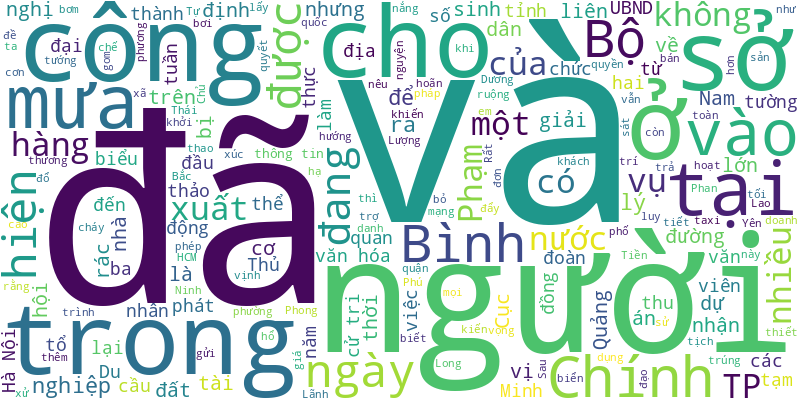
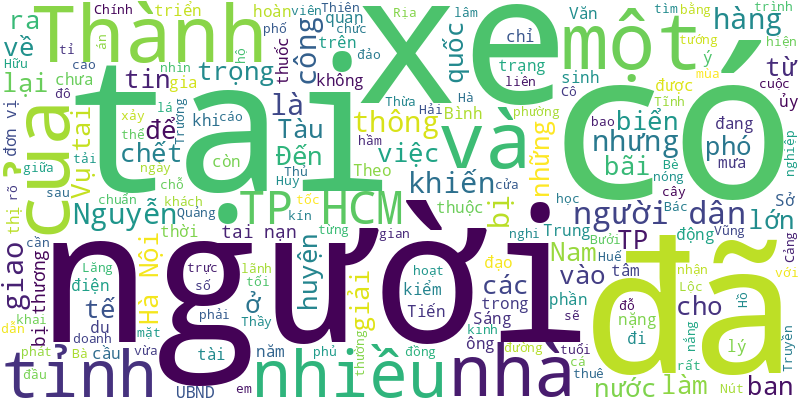
🍀 = 80%

diff --git a/README.md b/README.md
@@ -1,6 +1,17 @@
 # Tuoi Tre RSS 
 
 ## Giáo dục 
+- Số lượng sinh viên quốc tế ở Úc đã đạt mức cao kỷ lục là 671.000 người vào tháng 3 vừa qua, tăng 15% so với năm ngoái.
+- Tại hội nghị, Phó chủ tịch TP.HCM Dương Anh Đức mong lĩnh vực năng lực sức khỏe sẽ được tích hợp vào chương trình đào tạo của Trường đại học Y khoa Phạm Ngọc Thạch.
+- Trường THCS Nguyễn Văn Bứa, TP.HCM có chủ trương gửi mẫu đơn 'xin không thi tuyển sinh lớp 10' cho phụ huynh là không đúng quy định.
+- Thời gian tới, Bộ Khoa học và Công nghệ sẽ không quá ưu tiên vào  công bố quốc tế, mà ưu tiên cho các nhà khoa học trẻ.
+- Với 20 phương thức xét tuyển đại học năm 2024, thí sinh có nhiều lựa chọn để đăng ký ngành, trường yêu thích.
+- Chuyến xe Khám phá trường học tiếp tục đưa khán giả tham quan một cơ sở giáo dục mới, lần này là hệ thống Trường Me Since 1988 tại TP.HCM.
+- Sức hút ngành quan hệ công chúng tăng dần và liên tục thu hút thí sinh quan tâm trên các diễn đàn nghề nghiệp.
+- Quản trị kinh doanh luôn có sức hút mạnh mẽ đối với Gen Z và là một ngành hot mỗi mùa tuyển sinh đại học.
+- Dự kiến bắt đầu từ 17h ngày mai 14-5, học sinh lớp 9 ở TP.HCM sẽ có 5 ngày để thay đổi nguyện vọng tuyển sinh lớp 10.
+- Trường đại học Bách khoa (Đại học Quốc gia TP.HCM) vừa công bố chi tiết về phương thức xét tuyển tổng hợp năm 2024 với cách tính điểm đặc biệt.
+- Thủ tướng Phạm Minh Chính nhắn nhủ như vậy tại lễ khai mạc Ngày hội khởi nghiệp quốc gia của học sinh, sinh viên diễn ra tại TP Cần Thơ vào ngày 12-5.
 - Sự phát triển vượt bậc của công nghệ mở ra kỷ nguyên mới trong lĩnh vực thiết kế vi mạch.
 - Ông Johnathan Hạnh Nguyễn đã có liên tục gần 3 giờ trao đổi với sinh viên Trường đại học Đà Lạt về sự học và phát triển bản thân trong chiều 6-5.
 - Sáng 12-5, gần 600 học sinh lớp 6, 7, 8, 9 của TP.HCM và các tỉnh đã tranh tài giải Lê Quý Đôn tại Thảo Cầm Viên, quận 1, TP.HCM.
@@ -20,49 +31,38 @@
 - Mức hỗ trợ học phí cho học sinh THCS là 100.000 đồng/học sinh/tháng đối với nhóm 1 và 85.000 đồng/học sinh/tháng đối với nhóm 2.
 - Hội đồng Anh đã cấp 90.481 chứng chỉ tiếng Anh, trong đó có 52.564 chứng chỉ IELTS khi chưa được cấp phép liên kết tổ chức thi.
 - Đại học Kinh tế TP.HCM (UEH) vừa có kết luận ban đầu về xử lý vụ GS.TS Võ Xuân Vinh thuộc Viện Nghiên cứu kinh doanh UEH, có tên trên bài báo vừa bị một tạp chí quốc tế gỡ bỏ.
-- Việc một giáo viên chụp ảnh trẻ không có đồng phục gửi lên nhóm phụ huynh kèm lời nhắn có phần phân biệt đang nhận nhiều sự quan tâm trên mạng xã hội.
-- Tính đến 17h ngày 10-5, cả nước có trên 1 triệu thí sinh đăng ký dự thi tốt nghiệp THPT năm 2024.
-- Năm 2024, Trường đại học Luật TP.HCM tăng chỉ tiêu tuyển sinh lên 1.134 sinh viên cho các phương thức xét tuyển sớm, dành cho 3 nhóm đối tượng.
-- Tổ chức khóa bồi dưỡng kỹ năng căn bản nhằm đáp ứng nhu cầu về kỹ năng trong lĩnh vực báo chí - truyền thông.
-- Ngày 10-5, Sở Giáo dục và Đào tạo Hà Nội công bố số lượng thí sinh đăng ký dự thi lớp 10 công lập năm học 2024-2025.
-- Chiều 10-5, sự kiện AI Day tiếp tục với hội thảo 'Hiểu AI, làm giàu hành trang nghề nghiệp'. Hội thảo được chia thành các phiên, tập trung vào từng lĩnh vực cụ thể mà AI đang để lại nhiều tác động.
-- Do đề thi môn tiếng Anh cuối học kỳ 2 có sơ sót, nên tất cả học sinh lớp 12 Trường THPT Lê Trọng Tấn, TP.HCM phải kiểm tra lại.
-- Đà Nẵng có 16.500 thí sinh đăng ký nguyện vọng 1 tuyển sinh vào lớp 10 THPT, trong khi đó chỉ tiêu phân bổ cho tất cả các trường là 11.616.
-- Hơn 350 câu hỏi của bạn đọc gửi về buổi giao lưu trực tuyến chủ đề 'Lưu ý gì về tuyển sinh lớp 1, lớp 6, lớp 10 trên địa bàn TP.HCM?' do báo Tuổi Trẻ tổ chức sáng 9-5.
-- Hiện học sinh lớp 12 Trường quốc tế AISVN đang thi kỳ thi tú tài quốc tế (IB), đến hôm nay 10-5 sẽ kết thúc. Theo kế hoạch, ngày 17-5 học sinh lớp 12 của trường sẽ tốt nghiệp THPT.
-- Số thí sinh dự thi lớp 10 Trường phổ thông Năng khiếu tăng gần 1.000 em so với năm trước.
 ![Edu](Edu.png)
 ## Thời Sự 
-- Đang bơm bê tông công trình không phép thì nắp cống vỉa hè trên đường Trần Thủ Độ, phường Tiền Phong, TP Thái Bình, bị sập làm vòi bơm văng trúng tổ thợ khiến ba người bị thương.
-- Ba trẻ em chơi tại vị trí sát tường nhà, phía ngoài tường là ta luy đất. Trong cơn mưa lớn, dòng nước xối từ ta luy đất đã ép tường nhà đổ vào ba em.
-- Tin tức đáng chú ý: Điều chỉnh dự án hỗ trợ, tái định cư Cảng hàng không Long Thành; Sầu riêng vào chính vụ, giá giảm nhanh; Vì sao cháy giữa ruộng ở Sóc Trăng?...
-- Hôm nay thời tiết Bắc Bộ có mưa to. Nam Bộ, Tây Nguyên ngày nắng, chiều tối mưa dông.
-- Chiếc ô tô bốc cháy trong cơn mưa lớn tối 12-5 khiến đường vành đai 3 (hướng đi cầu Thanh Trì, Hà Nội) ùn tắc ở làn đường cao tốc.
-- Sau khoảng hai giờ mưa to, một số tuyến phố ở các quận nội thành Hà Nội đã xuất hiện tình trạng ngập úng.
-- Sau tiếng nổ lớn tại một nhà dân ở huyện Tiên Phước, Quảng Nam, mọi người phát hiện 1 người chết, 1 người bị thương.
-- Tiếp xúc cử tri tại TP Cần Thơ, Thủ tướng Phạm Minh Chính giải đáp nhiều kiến nghị của cử tri liên quan đến đầu tư cơ sở hạ tầng cho vùng, vấn đề hạn mặn, sạt lở và môi trường, an sinh xã hội…
-- Rất nhiều vị trí "đất vàng" tại Đắk Lắk được giao doanh nghiệp làm dự án nhưng xây dựng dang dở, thậm chí bỏ hoang hàng chục năm.
-- Trong phiên thảo luận Hội thảo văn hóa 2024, nhiều đại biểu nhận định cơ chế chính sách vẫn còn bất cập, gây khó cho thúc đẩy thiết chế văn hóa, thể thao.
-- Sở Văn hóa và Thể thao Hà Nội cho biết các đơn vị của sở đang rà soát, xử lý các thông tin liên quan đến giải "WPT VietNam 2024" (một giải đấu poker) đang được quảng cáo trên mạng xã hội.
-- Cơ quan chức năng đã vào cuộc kiểm tra vụ 'Vẫn đua xe địa hình dù đã yêu cầu tạm hoãn'. Lý do tạm hoãn được địa phương giải thích: chưa ổn pháp lý và an toàn.
-- Lượng lớn rác thải nhựa, rác sinh hoạt ở vịnh Vũng Rô và vịnh Xuân Đài, hai danh thắng ở Phú Yên, đã được dọn dẹp trong ngày 12-5.
-- Ngày 12-5, đoàn đại biểu Liên minh châu Âu (EU) đã chung tay thu gom rác tại khu vực bãi biển Hạ Long, tỉnh Quảng Ninh.
-- Nhận định về việc UBND quận Tân Bình kiến nghị nộp tiền chênh lệch để khắc phục do bán rẻ nhà số 9 Tự Cường, Sở Tài chính cho rằng không có cơ sở.
-- Tổng liên đoàn Lao động Việt Nam đề xuất người đóng trên 12 năm bảo hiểm thất nghiệp, không nhận trợ cấp, được thêm quyền lợi.
-- Sân Chi Lăng đang là tài sản thi hành án trong vụ án Phạm Công Danh, vậy liệu có thể giữ lại 'chảo lửa' một thời như nguyện vọng của người dân thành phố không?
-- Lãnh đạo Bộ Công an vừa gửi thư khen Cục An ninh mạng và phòng chống tội phạm sử dụng công nghệ cao (A05) và Công an tỉnh Phú Yên vụ triệt phá đường dây thu thập, sử dụng thông tin cá nhân để mở và bán tài khoản ngân hàng trái phép.
-- Du khách người Pháp chia sẻ bức xúc khi phải trả 500.000 đồng cho cuốc taxi ngắn và thêm 500.000 đồng để lấy lại tài sản bỏ quên trên taxi.
-- Sáng 12-5, Thảo cầm viên Sài Gòn tổ chức thôi nôi cho 2 con hổ Bengal Bình và Dương, rất đông du khách đã đến và hát chúc mừng 2 bé hổ này.
-- Thấy nhân viên cứu hộ đang bơi ra chỗ nạn nhân bị đuối nước, nhưng cứ bơi ra thì sóng lại đẩy vào, anh Tính liền mượn 2 áo phao rồi lao xuống.
-- Đánh giá công tác triển khai nghị quyết 98 gần 1 năm qua, Chủ tịch UBND TP.HCM Phan Văn Mãi cho rằng kết quả bước đầu khá tốt, khối lượng công việc đã làm hơn kỳ thực hiện nghị quyết 54.
-- Tham dự và phát biểu tại Ngày hội khởi nghiệp quốc gia của học sinh, sinh viên, Thủ tướng Chính phủ Phạm Minh Chính đã nêu ra những từ khóa định hướng khởi nghiệp trong thời gian tới.
-- Sở Du lịch Quảng Bình sẽ cử đoàn khảo sát hồ nước bí ẩn mới được phát hiện trong hang Thung.
-- Ông Nguyễn Văn Thọ - phó chủ tịch UBND phường Mũi Né, TP Phan Thiết, Bình Thuận - cho biết trong hai ngày cuối tuần, 11 và 12-5, địa phương đã huy động hàng trăm người để thu gom, xử lý rác đại dương và dầu vón cục trôi dạt vào bờ biển.
-- Ngày 12-5, lãnh đạo Cục Thuế tỉnh Kiên Giang xác nhận đơn vị đã có văn bản gửi Cục Quản lý xuất nhập cảnh (Bộ Công an) về việc tạm hoãn xuất cảnh đối với 2 giám đốc doanh nghiệp nợ thuế.
-- Đó là thông tin Giám đốc Sở An toàn thực phẩm TP.HCM Phạm Khánh Phong Lan nêu ra tại chương trình Dân hỏi - Chính quyền trả lời khi cử tri hỏi về hoạt động của sở cũng như một số vụ nghi ngờ ngộ độc thực phẩm đã xảy ra.
-- Tuần này nắng nóng còn vài nơi ở Nam Bộ nhưng mưa xuất hiện nhiều hơn; thời tiết Bắc Bộ có mưa to vào đầu tuần.
-- Hàng ngàn Phật tử mọi miền đất nước cùng dự lễ Phật đản ở chùa An Trú, cầu nguyện quốc thái dân an, hòa bình thế giới.
-- Tuy chỉ là hiện tượng tự nhiên nhưng nhiều người đã mê tín tổ chức cúng bái, lấy nước từ giếng khoan về uống để chữa bệnh và đổ vào đồng ruộng với hy vọng lúa trúng mùa.
+- Thủ tướng Chính phủ vừa có công điện về việc tăng cường quản lý thuốc lá điện tử, thuốc lá nung nóng.
+- Nút giao Nguyễn Văn Linh - Nguyễn Hữu Thọ là cửa ngõ quan trọng phía Nam TP.HCM nhưng phải rào chắn từ ngày 8-2 để làm đốt hầm kín. Đến cuối tháng 9, giao lộ sẽ được trả lại hiện trạng phần giữa.
+- Đến mùa mưa, người dân TP.HCM lại lo ngập nước. Thành phố sẽ chuẩn bị những gì để ứng phó mùa mưa sắp tới?
+- Thời gian qua tại Hà Nội, thường xảy ra tình trạng các gánh hàng rong, taxi "chặt chém" du khách trong và ngoài nước.
+- Hôm nay thời tiết ba miền cả nước có nét tương đồng khi ban ngày nắng, có nơi nắng nóng, chiều tối có mưa dông.
+- Một số tin tức đáng chú ý: Công bố tỉ lệ 'chọi' vào lớp 10 ở TP.HCM; Trồng 350 cây xanh tại nhà ga metro số 1...
+- Tối 13-5, lãnh đạo Sở Y tế Bình Thuận cho biết đang làm rõ thông tin hàng chục du khách nghi ngộ độc sau khi ăn tại một nhà hàng ở phường Hàm Tiến, Phan Thiết.
+- Hàng loạt cây cầu hàng trăm tỉ đồng tại nhiều địa phương của tỉnh Quảng Nam đã làm xong phần cầu từ lâu nhưng đường dẫn vẫn chưa hoàn thành, chậm tiến độ khiến người dân ngán ngẩm.
+- Vụ tai nạn lao động xảy ra tại hầm lò Công ty than Quang Hanh, TP Cẩm Phả, Quảng Ninh khiến 3 người chết.
+- Thầy thuốc nhân dân, GS.TS.BS Nguyễn Huy Dung, người từng chăm sóc sức khỏe Bác Hồ, người thầy lớn của nhiều thế hệ bác sĩ giỏi, đã từ trần.
+- Thấy con chim lạ đậu trên giàn mướp, người dân bắt giao cho kiểm lâm cứu hộ. Kiểm lâm viên ghi nhận đây là niệc mỏ vằn quý hiếm, thuộc họ hồng hoàng.
+- Theo quy hoạch, Hà Nội có 1.620 bãi đỗ xe nhưng hiện chỉ có 57 bãi đỗ xe hoạt động, còn lại đang trong quá trình chuẩn bị đầu tư và còn rất nhiều vướng mắc.
+- Hai nữ sinh chở nhau bằng xe đạp điện trên đường đi học về thì va chạm với xe tải, một em chết tại chỗ, một em bị thương.
+- Chưa ngăn chặn, hạn chế được các cuộc gọi lừa đảo vì có nhiều thuê bao không còn sử dụng nhưng chưa cập nhật thông tin thuê bao - Bộ Thông tin và Truyền thông lý giải.
+- Ông Nguyễn Trọng Nghĩa - trưởng Ban Tuyên giáo Trung ương - làm việc tại An Giang, tặng quà cho học sinh, gia đình chính sách và hộ nghèo huyện Thoại Sơn.
+- Đơn vị phường đã ra quân xử lý rác sinh hoạt, nước thải, xác động vật... nổi lềnh bềnh phủ kín mặt kênh ảnh hưởng đến người dân.
+- Khu du lịch triệu đô nằm dọc bãi biển Lăng Cô - Cảnh Dương (tỉnh Thừa Thiên Huế) nhiều năm liền bị bỏ hoang.
+- Nguyên lãnh đạo tỉnh Bà Rịa - Vũng Tàu đã có những nhìn nhận thẳng thắn, trực diện về những ‘nút thắt’ cần tháo gỡ để phát triển tỉnh này thành trung tâm kinh tế biển quốc gia.
+- Theo báo cáo ban đầu, vụ tai nạn liên hoàn ở ĐT 741 (Bình Phước) sáng 13-5 khiến 1 người chết, 3 người bị thương nặng.
+- Sau thời gian vào cuộc quyết liệt, đơn vị giải phóng mặt bằng huyện Thạch Hà (tỉnh Hà Tĩnh) đã hoàn tất việc bàn giao một phần trại heo án ngự trên cao tốc Bắc - Nam, để nhà thầu triển khai thi công dự án.
+- Luồng lạch dẫn vào Cảng cá Cửa Sót bị bồi lắng nặng nề, khi thủy triều xuống tàu thuyền có công suất lớn không thể vào cảng,
+- Liên quan vụ tai nạn đặc biệt nghiêm trọng giữa xe Thành Bưởi và xe 16 chỗ khiến 5 người chết, viện kiểm sát đã ra cáo trạng truy tố phó giám đốc nhà xe Thành Bưởi và tài xế.
+- Lực lượng chức năng đang tìm kiếm một cháu bé 6 tuổi mất tích nghi bị sóng biển cuốn trôi ở bãi biển thuộc thị trấn Lăng Cô (huyện Phú Lộc, tỉnh Thừa Thiên Huế).
+- Sáng 13-5, Phó bí thư thường trực Thành ủy TP.HCM Nguyễn Hồ Hải đã trao huy hiệu 75 năm tuổi Đảng cho ông Phạm Trương tại huyện Nhà Bè.
+- 'Cần coi các doanh nghiệp lớn là tài sản quốc gia chứ không nên nghĩ doanh nghiệp đó thuộc sở hữu của một cá nhân' là ý kiến của ông Vũ Tiến Lộc - ủy viên Ủy ban Kinh tế của Quốc hội, chủ tịch Trung tâm trọng tài quốc tế Việt Nam (VIAC).
+- Vụ tai nạn và cháy xe container ngùn ngụt khiến hơn 10 người bị thương, trong đó nhiều người bị thương nặng.
+- Phó thủ tướng Lê Minh Khái nói rõ việc người dân quan tâm thị trường vàng là đúng nhưng phải đánh giá kỹ, bình tĩnh, tìm được giải pháp.
+- UBND TP Hải Phòng vừa phê duyệt chương trình phát triển đô thị thành phố với những mốc chỉ tiêu cụ thể theo từng giai đoạn, xây dựng tầm nhìn đến năm 2050.
+- Văn phòng UBND TP Hà Nội đã có văn bản truyền đạt ý kiến chỉ đạo của Chủ tịch UBND TP Hà Nội về giải "WPT Vietnam 2024".
+- Sáng 13-5, Sở Giao thông vận tải TP.HCM phối hợp các đơn vị tổ chức lễ khai trương tàu cao tốc Thăng Long từ Nhà Bè (TP.HCM) đi Côn Đảo (Bà  Rịa - Vũng Tàu), phục vụ nhu cầu đi lại rất lớn của người dân.
 ![New](News.png)
 ## Nhịp sống số 
 - Doanh nghiệp và người tiêu dùng đều cần công cụ để tự bảo vệ mình trước những hình thức gian lận mới của thanh toán số.
